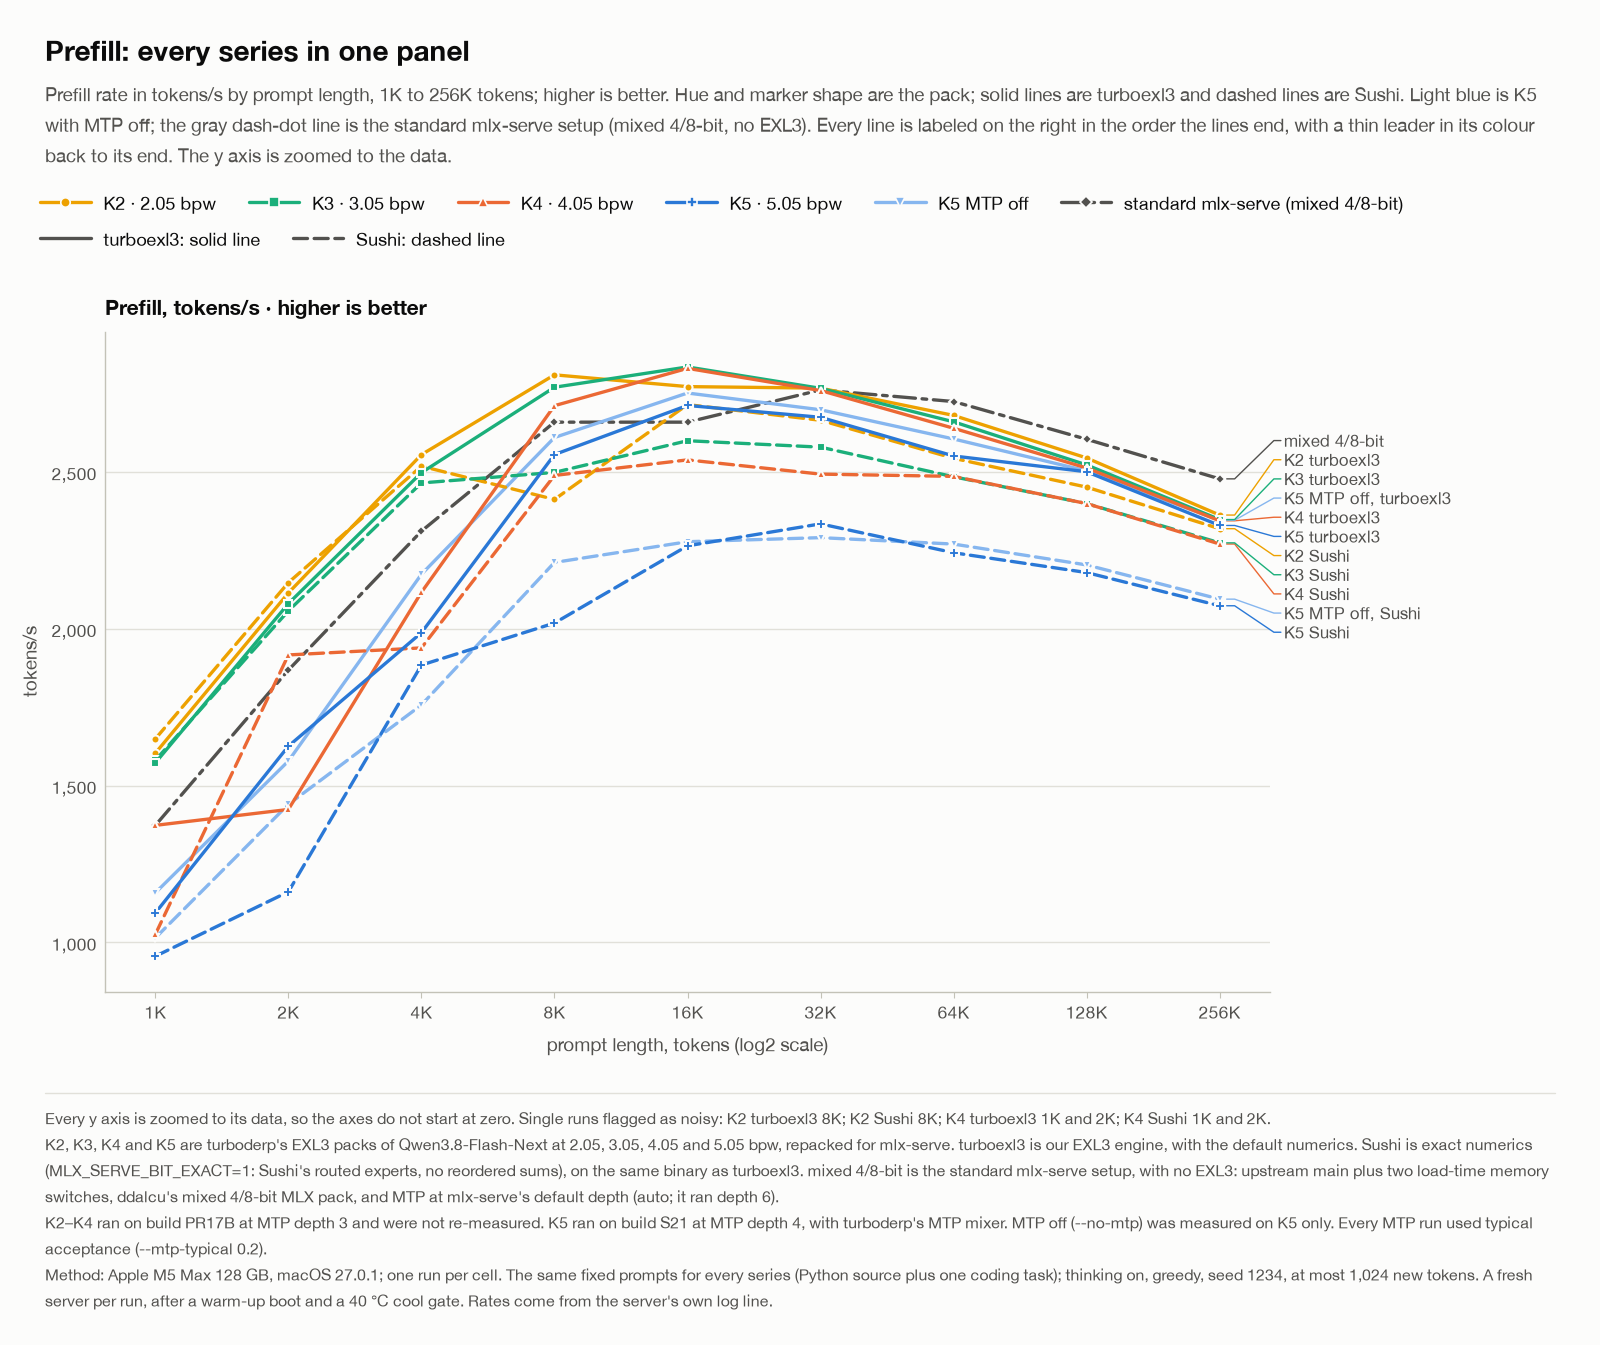
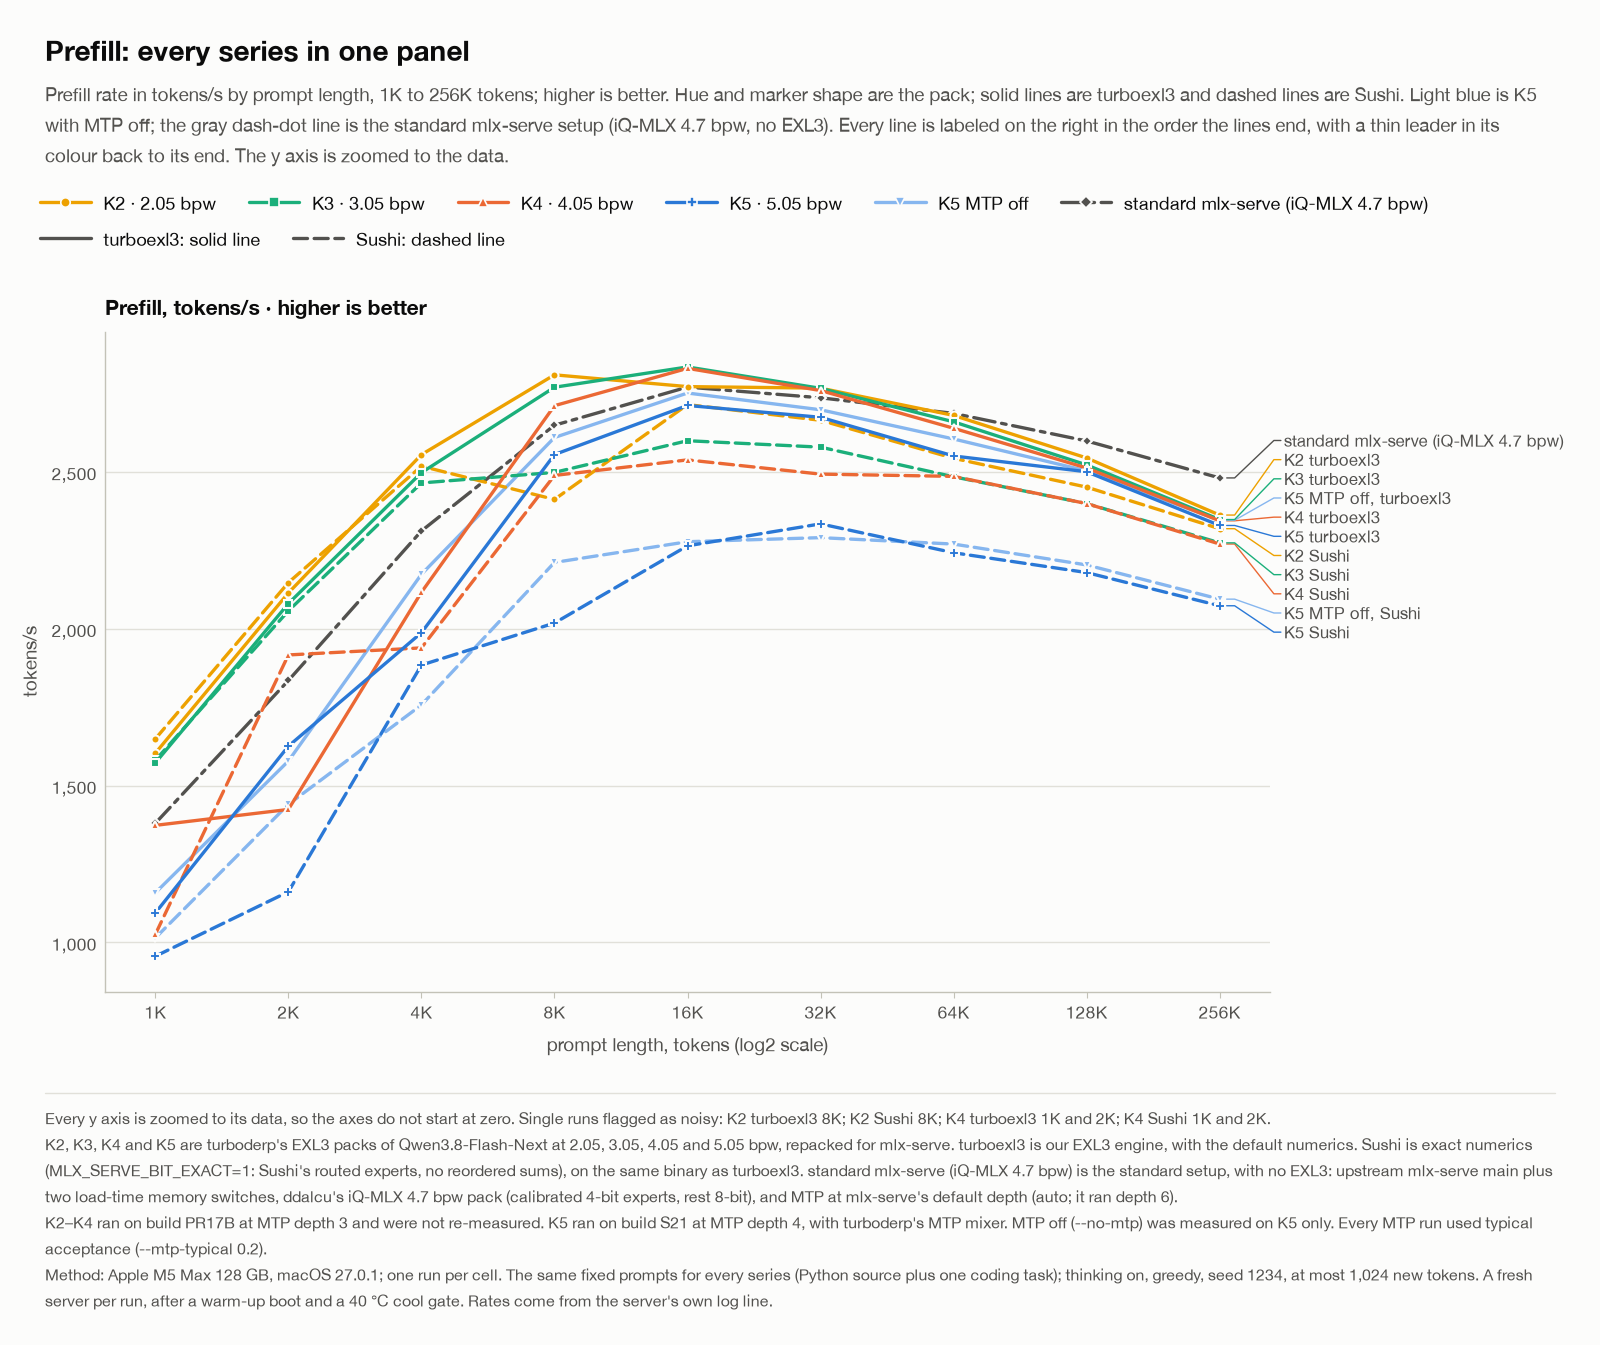
docs: the standard setup is ddalcu's iQ-MLX 4.7 bpw pack
The context sweeps now compare against ddalcu's calibrated iQ-MLX 4.7 bpw pack (window 2520: the same binary, prompts
and MTP settings as the earlier standard column). It replaces the uncalibrated mixed 4/8-bit pack, which ddalcu flagged
as bad. Both sweep tables take the new column, and every chart that draws the standard series is redrawn. The coding
evals follow once the pack's EvalPlus run lands.

diff --git a/docs/RESULTS.md b/docs/RESULTS.md
@@ -2,9 +2,10 @@
 
 Measured with mlx-serve on one Apple M5 Max (128 GB, macOS 27.0.1), serving [Qwen3.8-Flash-Next](GLOSSARY.md#qwen38)
 from the MLX repacks of [turboderp](GLOSSARY.md#turboderp)'s packs (the table in [the README](../README.md#the-packs)).
-The same tables were in the description of [ddalcu/mlx-serve#997](https://github.com/ddalcu/mlx-serve/pull/997). The
-code that served them is the branch [`qwen38-exl3-full`](https://github.com/davidtai/mlx-serve/tree/qwen38-exl3-full) of
-davidtai/mlx-serve, which serves these packs through turboexl3's [quant plugin](GLOSSARY.md#quant-plugin).
+The context-length tables for K2 to K5 were also in the description of
+[ddalcu/mlx-serve#997](https://github.com/ddalcu/mlx-serve/pull/997). The code that served them is the branch
+[`qwen38-exl3-full`](https://github.com/davidtai/mlx-serve/tree/qwen38-exl3-full) of davidtai/mlx-serve, which serves
+these packs through turboexl3's [quant plugin](GLOSSARY.md#quant-plugin).
 
 ## Quality: KL divergence and perplexity (turboderp's)
 
@@ -34,9 +35,8 @@ The end-to-end check through mlx-serve is the [coding evals](#coding-evals) belo
 ## Charts
 
 Prefill, decode, peak memory and time to first token from 1K to 256K, every pack and arm in one row per metric, with
-the standard mlx-serve setup (mixed 4/8-bit) among them; time to first token is drawn as each series' % difference from
-that setup. Each chart carries its method in its caption and is drawn from
-the tables below.
+the standard mlx-serve setup (the iQ-MLX 4.7 bpw pack) among them; time to first token is drawn as each series' %
+difference from that setup. Each chart carries its method in its caption and is drawn from the tables below.
 
 ![Every series in one row per metric: prefill, decode, peak memory and time to first token](charts/overview_all_series.png)
 
@@ -72,42 +72,45 @@ MLX_SERVE_GPU_CEILING_MB=114688 MLX_SERVE_CACHE_LIMIT=2147483648`. The rates com
   numerics, on one binary. K5 ran on build S21 (turboexl3's kernels as of 4a4ea95, with the host fixes of #997) at
   [MTP](GLOSSARY.md#mtp) depth 4 (`--mtp-max-depth 4 --mtp-typical 0.2`), with turboderp's MTP mixer. K2 to K4 ran on
   the earlier build PR17B at MTP depth 3 and were not re-measured.
-- **mixed 4/8-bit** is the standard mlx-serve setup, with no turboexl3: upstream main (edebbb3) with only #997's two
-  load-time switches, `MLX_SERVE_NOCACHE_LOAD` and `MLX_SERVE_NGRAM_WARM`. It runs ddalcu's
-  `Qwen3.8-Flash-Next-MLX-Serve-mixed-4-8bit` at mlx-serve's default MTP depth (auto: it ran depth 6), one arm. Its
-  `generation_config.json` gained `default_chat_template_kwargs: {"enable_thinking": true}`, which the EXL3 repacks carry,
-  so every column renders the same prompt.
+- **iQ-MLX 4.7 bpw** is the standard mlx-serve setup, with no turboexl3: upstream main (edebbb3) with only #997's two
+  load-time switches, `MLX_SERVE_NOCACHE_LOAD` and `MLX_SERVE_NGRAM_WARM` (binary 7f41623228f7). It runs ddalcu's
+  [`Qwen3.8-Flash-Next-MLX-Serve-iQ-MLX-4.7bpw`](https://huggingface.co/ddalcu/Qwen3.8-Flash-Next-MLX-Serve-iQ-MLX-4.7bpw)
+  (revision a0e89db090a3): affine 4-bit experts (group size 64) calibrated with an importance matrix, the rest in 8-bit,
+  75.3 GB without the n-gram table. It ran at mlx-serve's default MTP depth (auto: it ran depth 6) with
+  `--mtp-typical 0.2`, one arm, from a copy whose `generation_config.json` gained
+  `default_chat_template_kwargs: {"enable_thinking": true}`, which the EXL3 repacks carry, so every column renders the
+  same prompt. It replaces ddalcu's uncalibrated mixed 4/8-bit pack, which he flagged as bad.
 - `*`: the answer reached the 1,024-token cap. `†`: a single run flagged as noisy (K2 8K, K4 1K and 2K), not re-run. With
   MTP, a decode rate also depends on how many drafts its answer accepts, and the arms give different answers.
 - MTP off was measured on K5 only.
 
 Prefill, tok/s (MTP on):
 
-| prompt | tokens | mixed 4/8-bit | K2 Sushi | K2 turboexl3 | K3 Sushi | K3 turboexl3 | K4 Sushi | K4 turboexl3 | K5 Sushi | K5 turboexl3 |
+| prompt | tokens | iQ-MLX 4.7 bpw | K2 Sushi | K2 turboexl3 | K3 Sushi | K3 turboexl3 | K4 Sushi | K4 turboexl3 | K5 Sushi | K5 turboexl3 |
 |---|---:|---:|---:|---:|---:|---:|---:|---:|---:|---:|
-| 1K | 1,031 | 1,372.9 | 1,648.9 | 1,603.2 | 1,580.5 | 1,572.3 | 1,025.5† | 1,373.0† | 955.7 | 1,093.7 |
-| 2K | 2,013 | 1,868.1 | 2,147.0 | 2,114.1 | 2,057.0 | 2,080.1 | 1,916.3† | 1,423.7† | 1,161.2 | 1,625.5 |
-| 4K | 4,025 | 2,311.0 | 2,518.1 | 2,554.9 | 2,464.7 | 2,497.5 | 1,938.8 | 2,116.1 | 1,884.1 | 1,987.2 |
-| 8K | 8,100 | 2,658.5 | 2,412.1† | 2,809.4† | 2,498.3 | 2,769.8 | 2,488.6 | 2,711.0 | 2,018.0 | 2,555.2 |
-| 16K | 16,275 | 2,658.5 | 2,714.5 | 2,771.8 | 2,599.3 | 2,834.5 | 2,538.2 | 2,830.0 | 2,264.2 | 2,711.8 |
-| 32K | 32,424 | 2,761.2 | 2,664.4 | 2,767.0 | 2,578.8 | 2,766.3 | 2,492.8 | 2,759.3 | 2,334.2 | 2,674.0 |
-| 64K | 64,987 | 2,724.2 | 2,543.3 | 2,680.0 | 2,484.4 | 2,659.6 | 2,485.6 | 2,639.1 | 2,242.2 | 2,550.7 |
-| 128K | 129,949 | 2,604.0 | 2,451.4 | 2,544.4 | 2,399.0 | 2,522.2 | 2,398.9 | 2,512.4 | 2,179.0 | 2,500.4 |
-| 256K | 258,992 | 2,477.7 | 2,318.8 | 2,362.3 | 2,273.7 | 2,348.0 | 2,270.0 | 2,344.0 | 2,073.1 | 2,329.1 |
+| 1K | 1,031 | 1,379.7 | 1,648.9 | 1,603.2 | 1,580.5 | 1,572.3 | 1,025.5† | 1,373.0† | 955.7 | 1,093.7 |
+| 2K | 2,013 | 1,834.9 | 2,147.0 | 2,114.1 | 2,057.0 | 2,080.1 | 1,916.3† | 1,423.7† | 1,161.2 | 1,625.5 |
+| 4K | 4,025 | 2,311.6 | 2,518.1 | 2,554.9 | 2,464.7 | 2,497.5 | 1,938.8 | 2,116.1 | 1,884.1 | 1,987.2 |
+| 8K | 8,100 | 2,648.7 | 2,412.1† | 2,809.4† | 2,498.3 | 2,769.8 | 2,488.6 | 2,711.0 | 2,018.0 | 2,555.2 |
+| 16K | 16,275 | 2,770.3 | 2,714.5 | 2,771.8 | 2,599.3 | 2,834.5 | 2,538.2 | 2,830.0 | 2,264.2 | 2,711.8 |
+| 32K | 32,424 | 2,736.2 | 2,664.4 | 2,767.0 | 2,578.8 | 2,766.3 | 2,492.8 | 2,759.3 | 2,334.2 | 2,674.0 |
+| 64K | 64,987 | 2,686.4 | 2,543.3 | 2,680.0 | 2,484.4 | 2,659.6 | 2,485.6 | 2,639.1 | 2,242.2 | 2,550.7 |
+| 128K | 129,949 | 2,598.6 | 2,451.4 | 2,544.4 | 2,399.0 | 2,522.2 | 2,398.9 | 2,512.4 | 2,179.0 | 2,500.4 |
+| 256K | 258,992 | 2,480.7 | 2,318.8 | 2,362.3 | 2,273.7 | 2,348.0 | 2,270.0 | 2,344.0 | 2,073.1 | 2,329.1 |
 
 Decode, tok/s (MTP on):
 
-| prompt | tokens | mixed 4/8-bit | K2 Sushi | K2 turboexl3 | K3 Sushi | K3 turboexl3 | K4 Sushi | K4 turboexl3 | K5 Sushi | K5 turboexl3 |
+| prompt | tokens | iQ-MLX 4.7 bpw | K2 Sushi | K2 turboexl3 | K3 Sushi | K3 turboexl3 | K4 Sushi | K4 turboexl3 | K5 Sushi | K5 turboexl3 |
 |---|---:|---:|---:|---:|---:|---:|---:|---:|---:|---:|
-| 1K | 1,031 | 106.6 | 126.2 | 131.5 | 131.8 | 140.0 | 119.7† | 141.0† | 126.8 | 134.9 |
-| 2K | 2,013 | 95.2 | 119.6 | 123.6\* | 126.6 | 131.3\* | 114.2† | 134.8† | 122.0\* | 126.5\* |
-| 4K | 4,025 | 111.4 | 113.3 | 125.3 | 124.5 | 135.2 | 116.5 | 132.3 | 123.6 | 138.2 |
-| 8K | 8,100 | 96.1 | 118.2† | 127.6† | 128.2 | 134.4 | 116.1 | 135.7 | 123.1 | 126.6 |
-| 16K | 16,275 | 112.8\* | 110.7 | 120.6 | 126.6 | 132.3 | 112.5 | 137.6 | 122.3 | 124.2\* |
-| 32K | 32,424 | 105.0 | 107.5 | 117.8 | 117.8 | 128.5 | 108.7 | 126.4 | 114.3 | 122.8 |
-| 64K | 64,987 | 107.7 | 108.5 | 110.9 | 112.0 | 116.6 | 102.5 | 119.5 | 107.8 | 113.6 |
-| 128K | 129,949 | 99.1 | 98.9 | 101.3 | 106.3 | 110.4 | 96.8 | 114.3 | 103.6 | 108.9 |
-| 256K | 258,992 | 82.4 | 91.8 | 96.0 | 93.6 | 99.4 | 89.6 | 105.5 | 92.3 | 95.2 |
+| 1K | 1,031 | 97.1 | 126.2 | 131.5 | 131.8 | 140.0 | 119.7† | 141.0† | 126.8 | 134.9 |
+| 2K | 2,013 | 92.4\* | 119.6 | 123.6\* | 126.6 | 131.3\* | 114.2† | 134.8† | 122.0\* | 126.5\* |
+| 4K | 4,025 | 100.1 | 113.3 | 125.3 | 124.5 | 135.2 | 116.5 | 132.3 | 123.6 | 138.2 |
+| 8K | 8,100 | 102.2 | 118.2† | 127.6† | 128.2 | 134.4 | 116.1 | 135.7 | 123.1 | 126.6 |
+| 16K | 16,275 | 101.7 | 110.7 | 120.6 | 126.6 | 132.3 | 112.5 | 137.6 | 122.3 | 124.2\* |
+| 32K | 32,424 | 110.3 | 107.5 | 117.8 | 117.8 | 128.5 | 108.7 | 126.4 | 114.3 | 122.8 |
+| 64K | 64,987 | 96.6 | 108.5 | 110.9 | 112.0 | 116.6 | 102.5 | 119.5 | 107.8 | 113.6 |
+| 128K | 129,949 | 96.6 | 98.9 | 101.3 | 106.3 | 110.4 | 96.8 | 114.3 | 103.6 | 108.9 |
+| 256K | 258,992 | 87.4 | 91.8 | 96.0 | 93.6 | 99.4 | 89.6 | 105.5 | 92.3 | 95.2 |
 
 MTP off (`--no-mtp`), tok/s:
 
